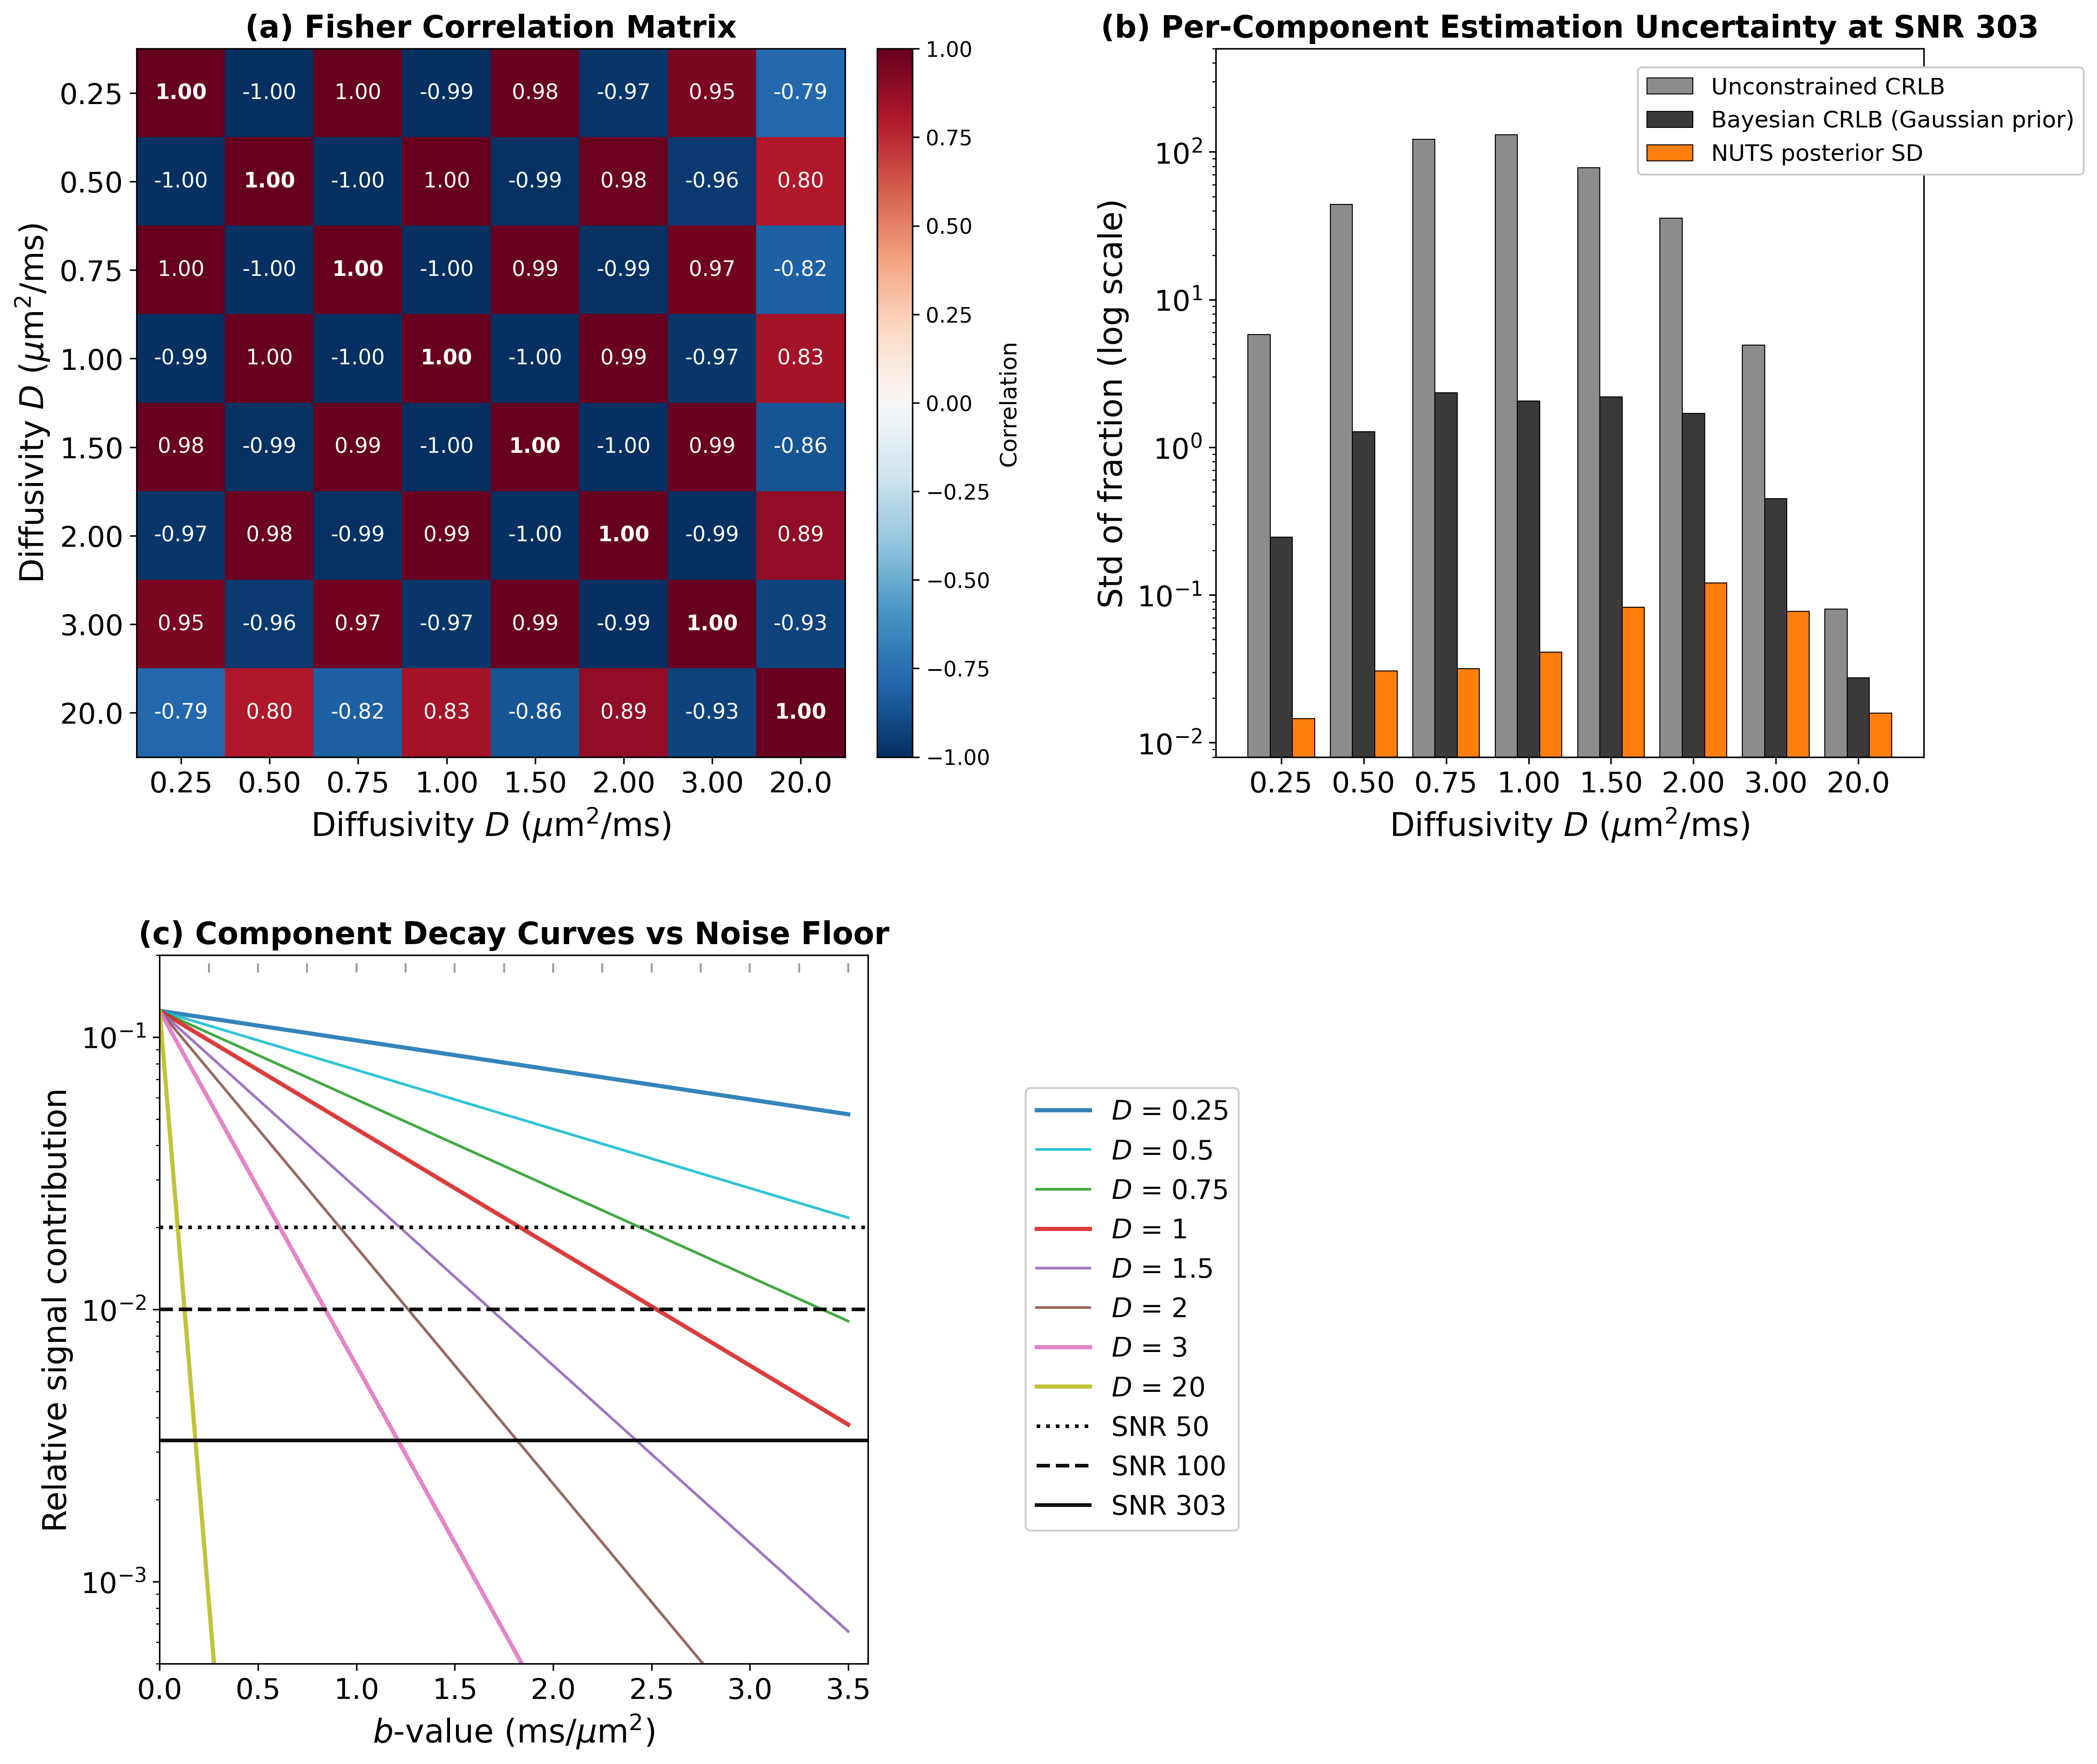
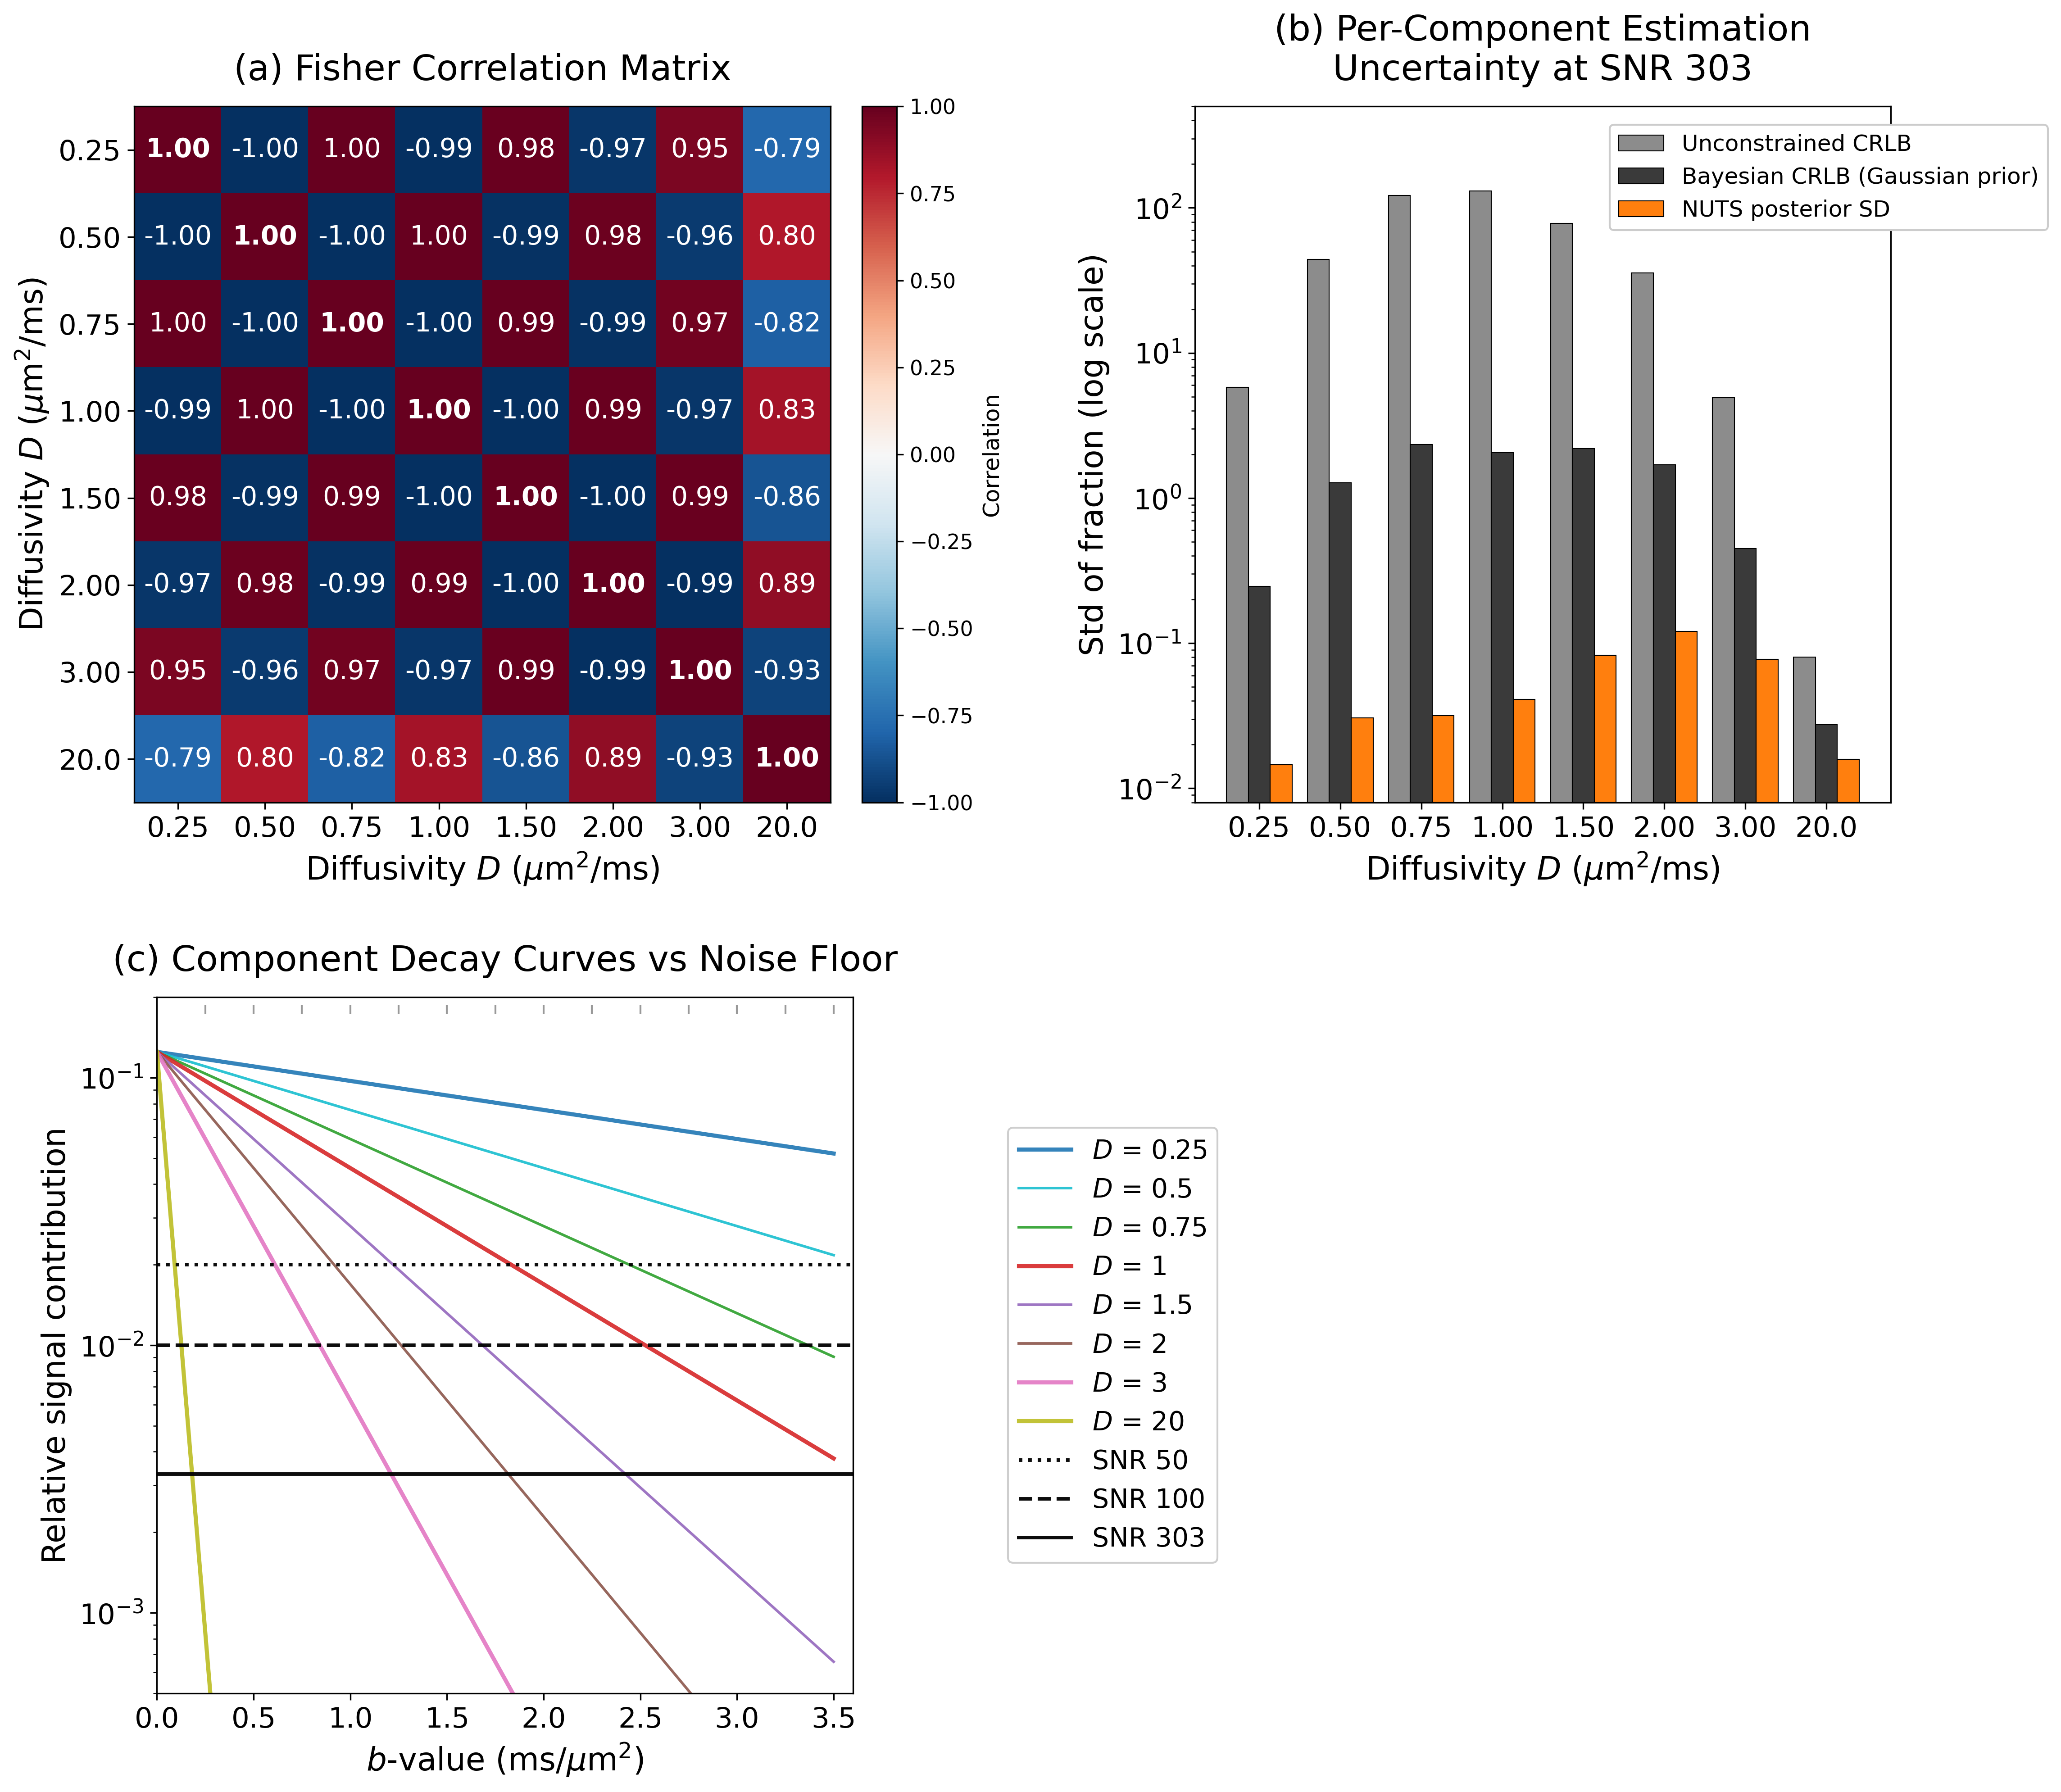
Fig 1 (Fisher): enlarge in-cell numbers + bigger non-bold padded titles (Stephan)
Per Stephan's Overleaf read: (a) panel-title fonts were too small and too close
to the graphs, (b) the in-patch correlation numbers were too small, and (c) Fig 1
was the only figure with bold titles. Fixes:
- (a) in-cell numbers 11 -> 14 (~27%, still inside each patch)
- (a,b,c) title size 16 -> 19, pad=14, fontweight removed (matches fig2/3/4)
- (b) title wrapped to two lines so it fits the square panel

Pure styling change -- all CRLB/correlation values byte-identical.

diff --git a/scripts/generate_fisher_figure.py b/scripts/generate_fisher_figure.py
@@ -39,9 +39,12 @@ from spectra_estimation_dmri.visualization.paper_style import (
 # ── Style ─────────────────────────────────────────────────────────────────────
 apply_style("grid")
 # Larger panels in the 2+1 layout -> fonts match the other figures more closely.
+# Title font bumped 16 -> 19 and de-bolded (Stephan 2026-06-22: panel titles were
+# too small / too close to the graphs / the only bold titles in the manuscript);
+# pad + non-bold are applied per-title below.
 plt.rcParams.update({
     "axes.labelsize": 17,
-    "axes.titlesize": 16,
+    "axes.titlesize": 19,
     "xtick.labelsize": 15,
     "ytick.labelsize": 15,
     "legend.fontsize": 14,
@@ -104,13 +107,15 @@ ax_a.set_yticks(range(len(D)))
 ax_a.set_yticklabels(D_labels)
 ax_a.set_xlabel(DIFF_AXIS_LABEL)
 ax_a.set_ylabel(DIFF_AXIS_LABEL)
-ax_a.set_title("(a) Fisher Correlation Matrix", fontweight="bold")
+ax_a.set_title("(a) Fisher Correlation Matrix", pad=14)
 for i in range(len(D)):
     for j in range(len(D)):
         val = C[i, j]
         color = "white" if abs(val) > 0.7 else "black"
+        # In-cell numbers enlarged 11 -> 14 (Stephan 2026-06-22, ~27%, still
+        # inside each patch -- the widest string "-1.00"/"-0.99" fits the cell).
         ax_a.text(j, i, f"{val:.2f}", ha="center", va="center",
-                  fontsize=11, color=color,
+                  fontsize=14, color=color,
                   fontweight="bold" if i == j else "normal")
 cb = fig.colorbar(im, ax=ax_a, fraction=0.046, pad=0.04)
 cb.set_label("Correlation", fontsize=12)
@@ -135,8 +140,8 @@ ax_b.set_xticks(x)
 ax_b.set_xticklabels(D_labels)
 ax_b.set_xlabel(DIFF_AXIS_LABEL)
 ax_b.set_ylabel("Std of fraction (log scale)")
-ax_b.set_title("(b) Per-Component Estimation Uncertainty at SNR 303",
-               fontweight="bold")
+# Two lines so the enlarged, non-bold title fits the square panel (Stephan).
+ax_b.set_title("(b) Per-Component Estimation\nUncertainty at SNR 303", pad=14)
 ax_b.set_box_aspect(1)
 # Opaque legend over the right portion (left edge ~ D = 3.0, the 7th of 8 bins).
 leg_b = ax_b.legend(loc="upper left", bbox_to_anchor=(0.58, 0.99),
@@ -166,7 +171,7 @@ for bv in b_values:
     ax_c.plot(bv, 0.18, marker="|", color="black", markersize=5, alpha=0.4)
 ax_c.set_xlabel(r"$b$-value (ms/$\mu$m$^2$)")
 ax_c.set_ylabel("Relative signal contribution")
-ax_c.set_title("(c) Component Decay Curves vs Noise Floor", fontweight="bold")
+ax_c.set_title("(c) Component Decay Curves vs Noise Floor", pad=14)
 ax_c.set_yscale("log")
 ax_c.set_ylim(5e-4, 0.2)
 ax_c.set_xlim(0, 3.6)